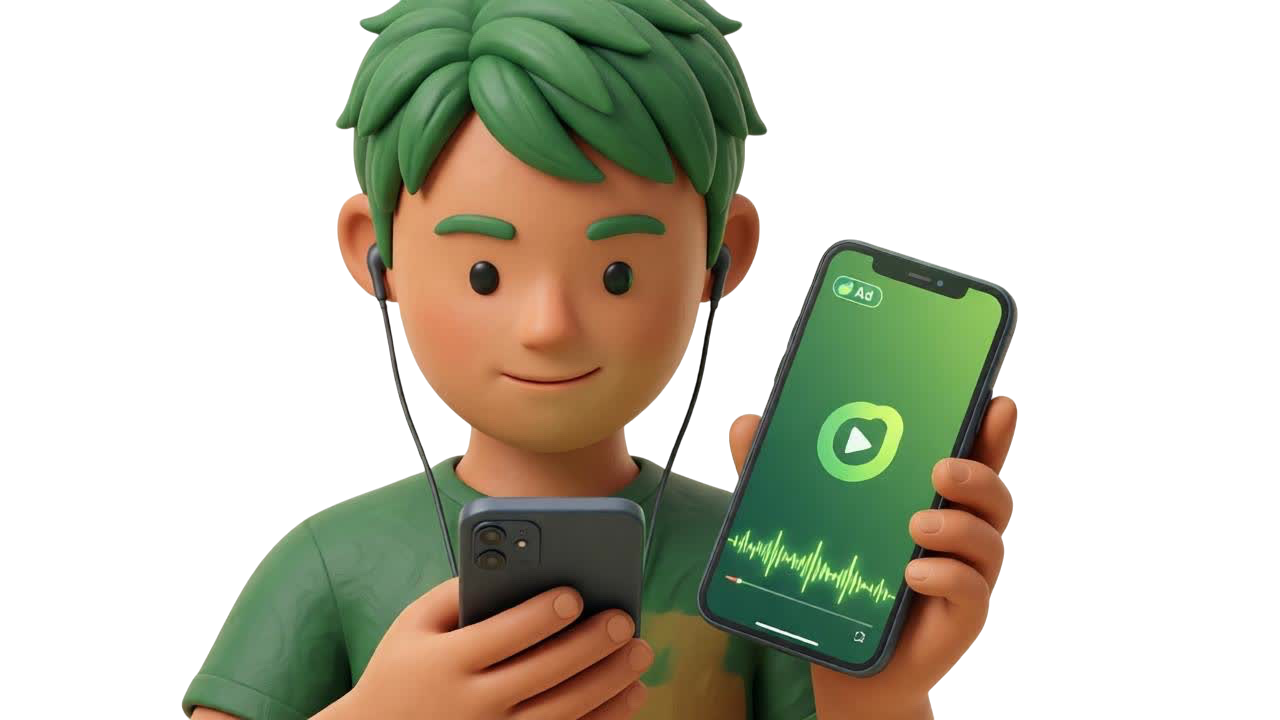
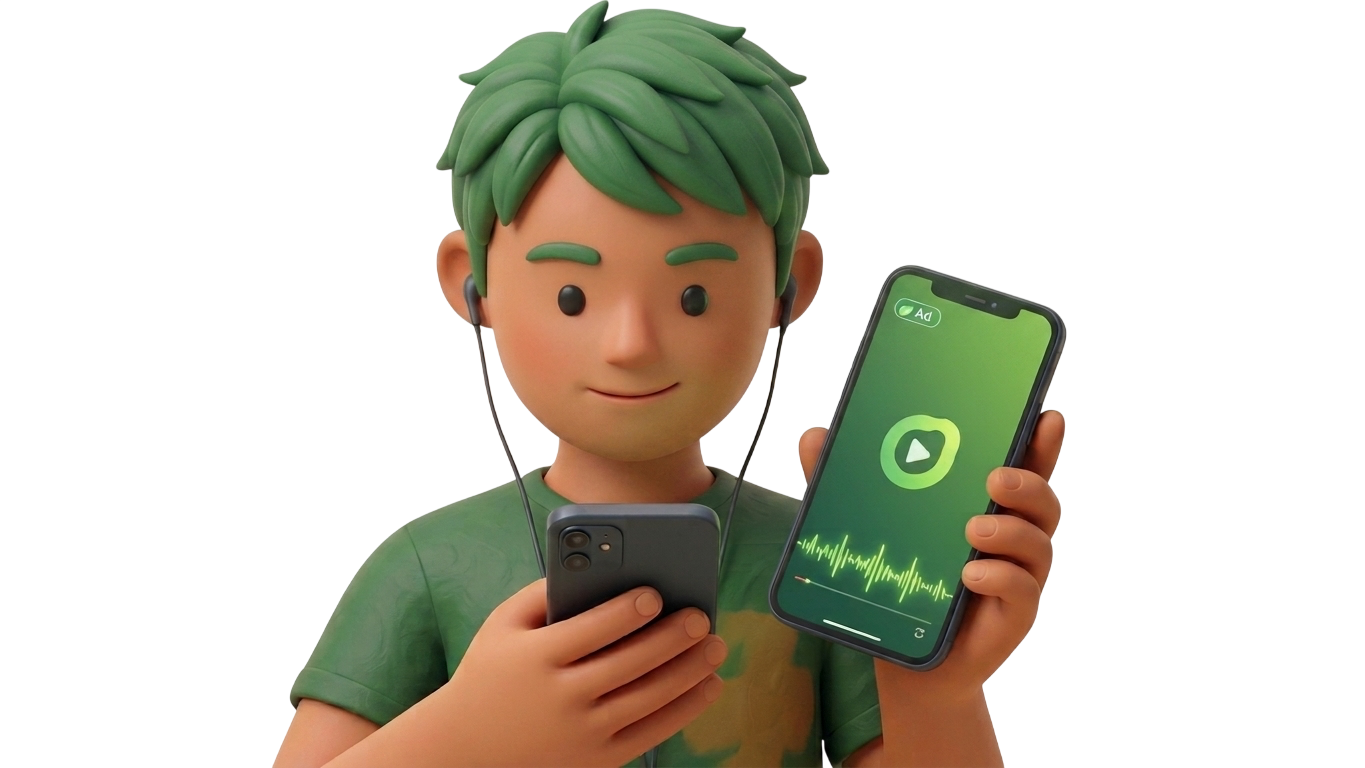
final corrected version of frontend(change image to video )

Changed region(s): [[0.125, 0.0, 0.8125, 1.0]]

diff --git a/frontend/src/pages/LandingPage.tsx b/frontend/src/pages/LandingPage.tsx
@@ -3,11 +3,13 @@ import { useNavigate, useLocation } from 'react-router-dom';
 import { ChevronRight } from 'lucide-react';
 
 // --- IMAGE IMPORTS FROM YOUR SRC/ASSETS/ DIRECTORY ---
-import heroCharacter from '../assets/hero-character.png';
+//import heroCharacter from '../assets/hero-character.png';
 import heroAudio from '../assets/audio.png';
 import step1Card from '../assets/step1-card.png';
 import step2Card from '../assets/step2-card.png';
 import step3Card from '../assets/step3-card.png';
+import heroVideoWebm from '../assets/hero-character.webm';
+import heroVideoMov from '../assets/hero-character.mov';
 
 export default function LandingPage() {
   const navigate = useNavigate();
@@ -249,19 +251,25 @@ export default function LandingPage() {
           </div>
         </div>
 
-        {/* Right Column Character Image */}
-        <div style={{ flexShrink: 0, display: 'flex', alignItems: 'center', justifyContent: 'flex-end' }}>
-          <img 
-            src={heroCharacter} 
-            alt="Hero Character" 
-            style={{ 
-              width: '795px', 
-              height: '447px', 
-              objectFit: 'contain',
-              display: 'block' 
-            }} 
-          />
-        </div>
+       {/* Right Column Character Video */}
+<div style={{ flexShrink: 0, display: 'flex', alignItems: 'center', justifyContent: 'flex-end' }}>
+  <video 
+    autoPlay
+    loop
+    muted
+    playsInline
+    style={{ 
+      width: '795px', 
+      height: '447px', 
+      objectFit: 'contain',
+      display: 'block',
+      transform: 'translateX(-40px)' // Kept your layout nudge here!
+    }} 
+  >
+    <source src={heroVideoMov} type="video/mp4;codecs=hvc1" /> 
+    <source src={heroVideoWebm} type="video/webm" />
+  </video>
+</div>
       </section>
 
       {/* 3. HOW IT WORKS */}
@@ -280,9 +288,8 @@ export default function LandingPage() {
               marginBottom: '140px' 
           }}>
             <div style={{ maxWidth: '460px' }}>
-              <span style={{ fontSize: '14px', fontWeight: '700', color: colors.primaryAccent, display: 'block', marginBottom: '8px' }}>01 - Tell us the context</span>
-              <h3 style={{ fontSize: '32px', fontWeight: '700', margin: '0 0 16px 0', color: colors.headings, letterSpacing: '-1px' }}>Tell us the context</h3>
-              <p style={{ fontSize: '15px', color: colors.secondaryText, lineHeight: '1.6', fontWeight: '500', margin: 0 }}>
+              <h3 style={{ fontSize: '45px', fontWeight: '700', margin: '0 0 16px 0', color: colors.headings, letterSpacing: '-1px' }}>Tell us the context</h3>
+              <p style={{ fontSize: '20px', color: colors.secondaryText, lineHeight: '1.6', fontWeight: '500', margin: 0 }}>
                 Pick the platform, the audience, the mood. A TikTok pre-roll and a retail store loop don't need the same energy. SonicFit knows the difference.
               </p>
             </div>
@@ -306,9 +313,8 @@ export default function LandingPage() {
             marginBottom: '140px' 
           }}>
             <div style={{ maxWidth: '460px' }}>
-              <span style={{ fontSize: '14px', fontWeight: '700', color: colors.primaryAccent, display: 'block', marginBottom: '8px' }}>02 - Get real variants, not one guess</span>
-              <h3 style={{ fontSize: '32px', fontWeight: '700', margin: '0 0 16px 0', color: colors.headings, letterSpacing: '-1px' }}>Get real variants, not one guess</h3>
-              <p style={{ fontSize: '15px', color: colors.secondaryText, lineHeight: '1.6', fontWeight: '500', margin: 0 }}>
+              <h3 style={{ fontSize: '45px', fontWeight: '700', margin: '0 0 16px 0', color: colors.headings, letterSpacing: '-1px' }}>Get real variants, not one guess</h3>
+              <p style={{ fontSize: '20px', color: colors.secondaryText, lineHeight: '1.6', fontWeight: '500', margin: 0 }}>
                 Every brief generates 2-3 distinct directions. Compare them side by side before you commit.
               </p>
             </div>
@@ -325,9 +331,8 @@ export default function LandingPage() {
           {/* STEP 3 */}
           <div style={{ display: 'flex', justifyContent: 'center', alignItems: 'center', gap: '230px' }}>
             <div style={{ maxWidth: '460px' }}>
-              <span style={{ fontSize: '14px', fontWeight: '700', color: colors.primaryAccent, display: 'block', marginBottom: '8px' }}>03 - Feedback that actually trains the next round</span>
-              <h3 style={{ fontSize: '32px', fontWeight: '700', margin: '0 0 16px 0', color: colors.headings, letterSpacing: '-1px' }}>Feedback that actually trains the next round</h3>
-              <p style={{ fontSize: '15px', color: colors.secondaryText, lineHeight: '1.6', fontWeight: '500', margin: 0 }}>
+              <h3 style={{ fontSize: '45px', fontWeight: '700', margin: '0 0 16px 0', color: colors.headings, letterSpacing: '-1px' }}>Feedback that actually trains the next round</h3>
+              <p style={{ fontSize: '20px', color: colors.secondaryText, lineHeight: '1.6', fontWeight: '500', margin: 0 }}>
                 Pick the platform, the audience, the mood. A TikTok pre-roll and a retail store loop don't need the same energy. SonicFit knows the difference.
               </p>
             </div>